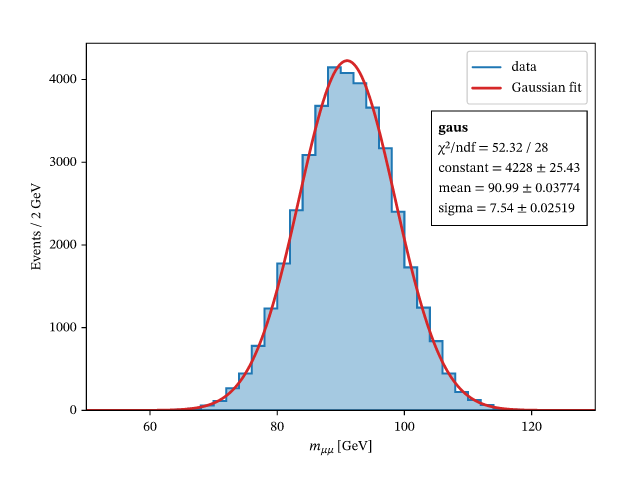
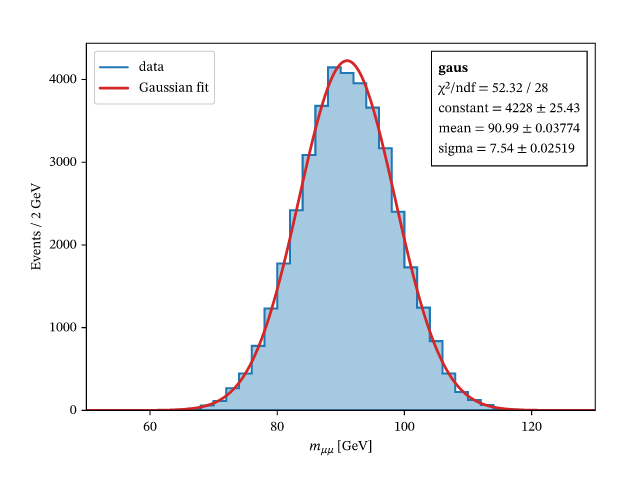
Plotting: oxiplot 0.4.0, oxihist 0.6.1, oxifit 0.1.2; guide covers stacks and category axes (#69)
Pins the new releases (lockstep: one version of each oxihep crate). The
plotting guide gains stacks and category-axis sections and notes the
heatmap image and the SVG size in points; the README and changelog follow.
The fit and mplhep example images are re-rendered: the legend now keeps off
the fit-statistics box.

Changed region(s): [[0.6562, 0.0938, 0.9375, 0.4688], [0.1562, 0.125, 0.3438, 0.2188]]

diff --git a/docs/guide/plotting.md b/docs/guide/plotting.md
@@ -109,6 +109,31 @@ weighted or background-subtracted one) extends below zero. Limits you set with
 `xlim`/`ylim` always win, whether set before or after plotting. Bins holding
 NaN or ±∞ are drawn empty rather than breaking the plot.
 
+### Stacks
+
+`hist_stack` draws histograms that share a binning on top of each other, as
+mplhep's `histplot(stack=True)` does: layers are given bottom to top, filled
+by default, and the legend lists them top to bottom. Layers of a different
+binning are refused with an error.
+
+<!-- fragment -->
+```rust
+use oxiroot::plot::{Axes, HistOpts, HistType, StackOpts, Color};
+
+let mut ax = Axes::new();
+ax.hist_stack_with(&[&dy, &ttbar, &signal], StackOpts::new().labels(["DY", "$t\\bar{t}$", "signal"]))?;
+ax.hist_with(&total, HistOpts::new().histtype(HistType::Band).color(Color::BLACK).label("stat. unc."));
+ax.legend();
+# Ok::<(), oxiroot::plot::Error>(())
+```
+
+### Category axes
+
+A histogram whose bins are categories names them on the plot: each bin is
+labelled at its centre instead of with numeric ticks. oxihist histograms over
+a string, integer-category or boolean axis do this on their own; from plain
+arrays, use `Binned1D::categories(&["ee", "μμ", "eμ"], counts)`.
+
 ## Graphs and profiles
 
 `errorbar` draws a `Graph` (plain, symmetric, or asymmetric errors) as data
@@ -185,6 +210,10 @@ rather than painted the colormap's lowest color, and they are excluded from the
 autoscale, so the color range spans only the bins that hold data. This is the
 ROOT `COLZ` / matplotlib `cmin` convention; with a transparent background the
 empty cells become transparent.
+
+A large heatmap (64 × 64 bins or more, regular bins on linear axes) is drawn
+as one image, a pixel per bin with no smoothing, so a fine 2-D histogram stays
+a small SVG or PDF; smaller or variable-width grids draw a rectangle per bin.
 
 ## Overlaying a fitted curve
 
@@ -348,8 +377,8 @@ ax.save_with("plot.png", SaveOpts::new().transparent())?;
 ```
 
 SVG and PDF are resolution-independent; DPI only affects the PNG raster. A PDF
-page is the figure's size in points (6.4 × 4.8 in by default) at any DPI, so
-text keeps its point size. `PdfPages` collects several figures, or single axes
+page, and an SVG's stated size, are the figure's size in points (6.4 × 4.8 in
+by default) at any DPI, so text keeps its point size. `PdfPages` collects several figures, or single axes
 with `add_axes`, into one multi-page PDF. To render without touching the
 filesystem, `ax.to_svg_string()`,
 `ax.to_png_bytes(SaveOpts::new())`, and `ax.to_pdf_bytes()` return the bytes

diff --git a/CHANGELOG.md b/CHANGELOG.md
@@ -14,6 +14,12 @@ change the API.
 
 ### Changed
 
+- **Plotting uses oxiplot 0.4.0, oxihist 0.6.1 and oxifit 0.1.2.** New:
+  stacked histograms (`Axes::hist_stack`), category axes (oxihist category
+  histograms label their bins), large heatmaps drawn as one image, SVGs
+  sized in points. oxihist validates deserialised histograms; oxifit's
+  Nelder–Mead fallback is valid only when it converged. The plotting guide
+  covers stacks and category axes.
 - **Plotting uses oxiplot 0.3.1** (and oxihist 0.5.1, which builds on it).
   New: log axes (`Axes::xscale`/`yscale` with `Scale::Log`), legend
   placement (`legend()` now avoids the data; `legend_loc(Loc)` pins it),

diff --git a/README.md b/README.md
@@ -646,7 +646,8 @@ ax2.save("heatmap.svg")?;
   `LogNorm`/`SymLogNorm`), `plot`, `function` (overlay any
   analytic or fitted curve), `grid`, `xlabel`/`ylabel`/`title`, `xlim`/`ylim`
   (taking a `Range`, e.g. `ax.xlim(0.0..100.0)`), log axes
-  (`ax.yscale(Scale::Log)`, decade ticks labelled 10ᵏ), and `legend`, placed
+  (`ax.yscale(Scale::Log)`, decade ticks labelled 10ᵏ), stacked histograms
+  (`hist_stack`), labelled category axes, and `legend`, placed
   where it hides the least data (matplotlib's `loc="best"`) or pinned with
   `legend_loc(Loc::…)`. The `*_with` methods take an options builder; the bare
   ones use defaults.
